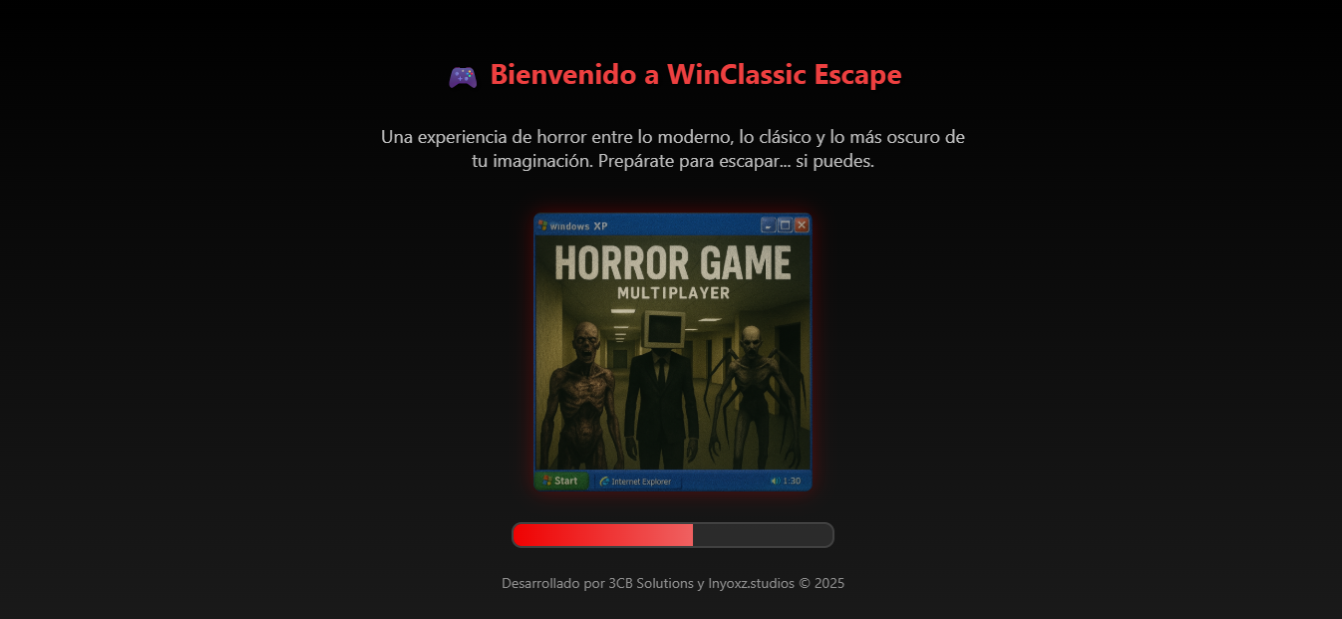
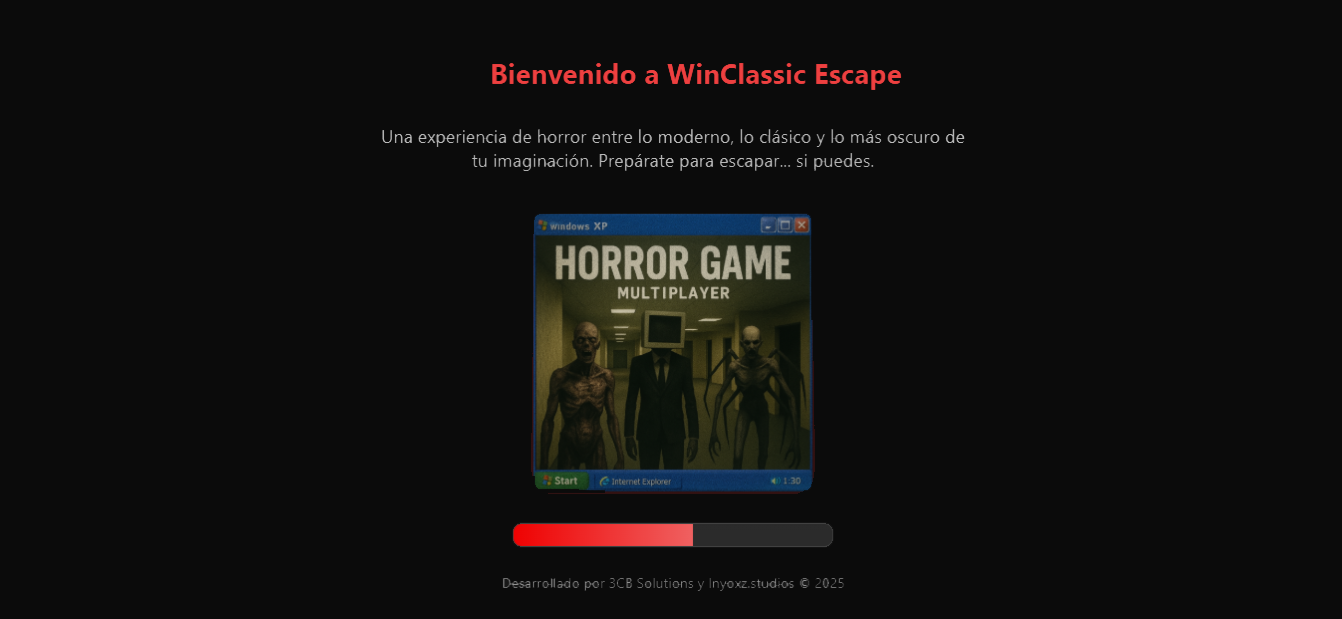
actualizacion dieciseis del juego

diff --git a/public/index.html b/public/index.html
@@ -79,7 +79,7 @@
 </head>
 <body>
 
-  <h1 class="fade-in">🎮 Bienvenido a WinClassic Escape</h1>
+  <h1 class="fade-in">Bienvenido a WinClassic Escape</h1>
   <p class="intro-text fade-in">Una experiencia de horror entre lo moderno, lo clásico y lo más oscuro de tu imaginación. Prepárate para escapar... si puedes.</p>
 
   <img src="assets/intro_banner.png" alt="WinClassic Escape Banner" class="banner fade-in"/>
